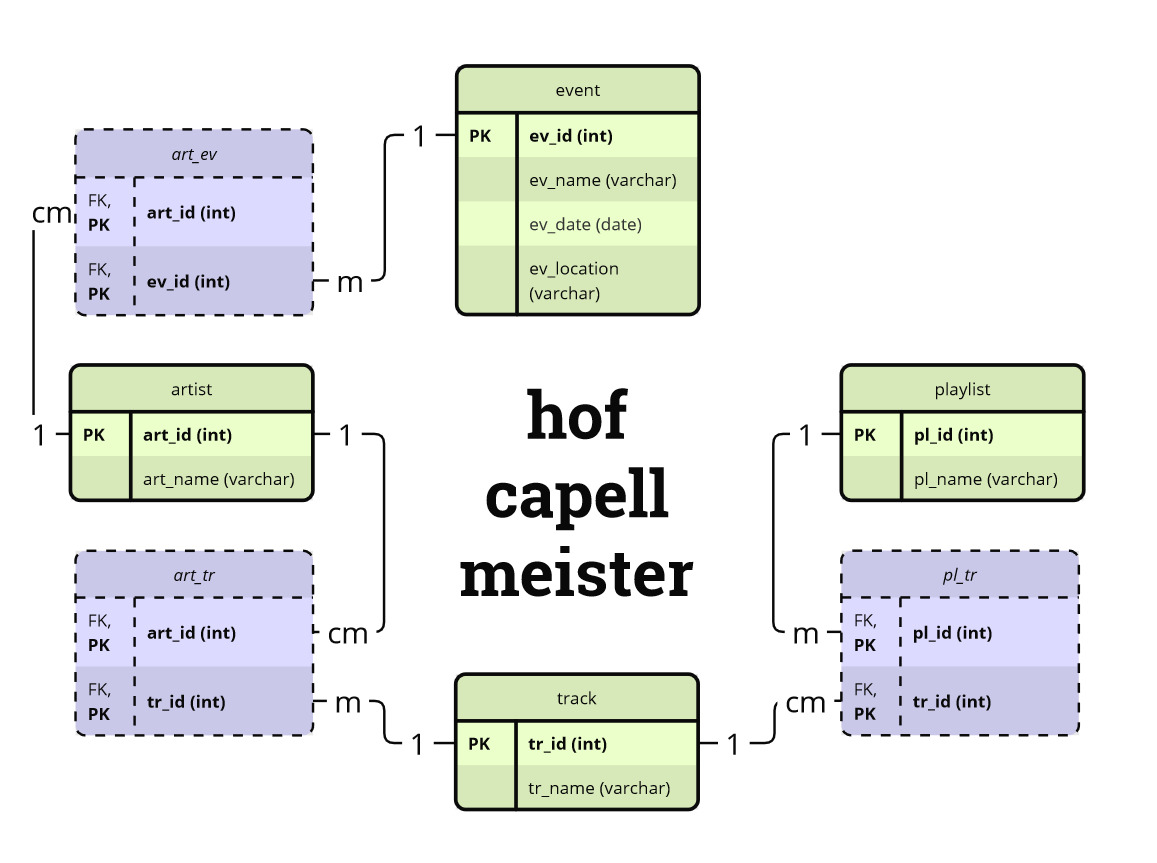
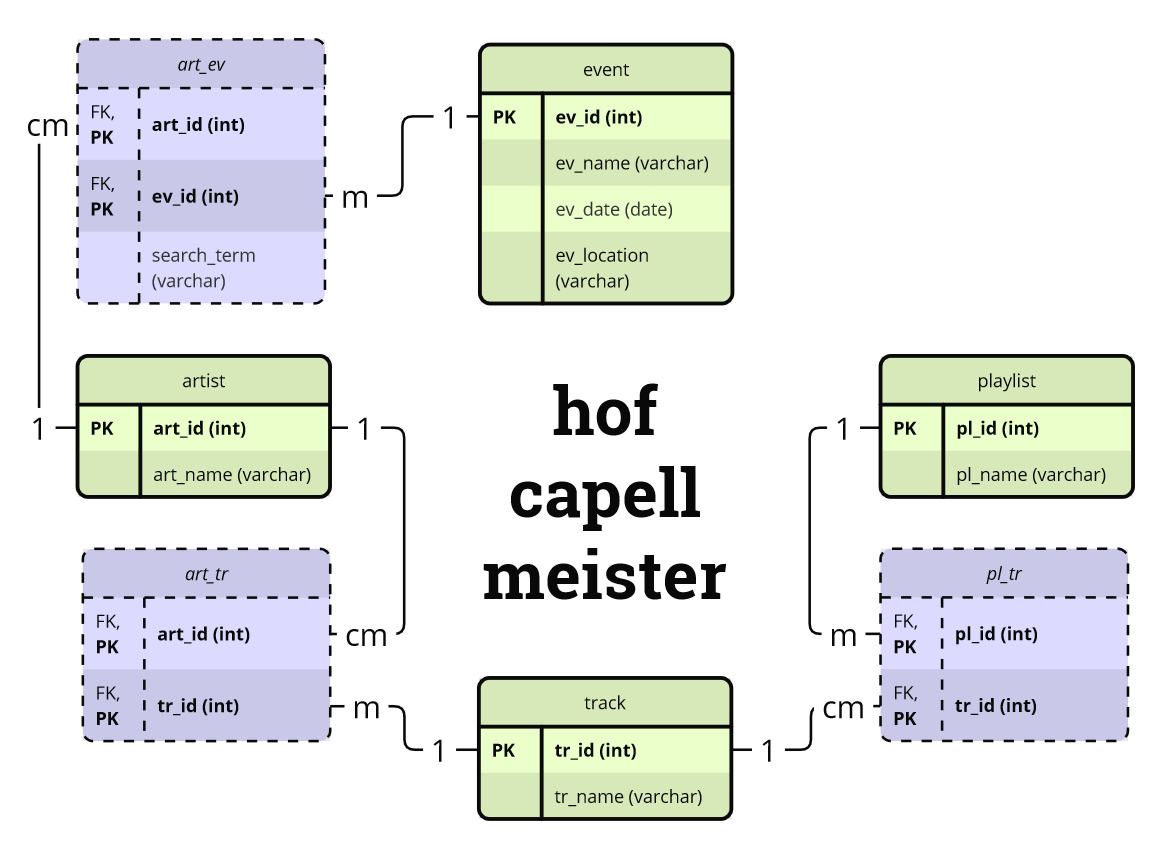
implement save_data for all database tables

Changed region(s): [[0.0311, 0.0305, 0.6845, 0.9765], [0.6534, 0.3967, 0.9957, 0.885], [0.4045, 0.4272, 0.6223, 0.7019]]

diff --git a/db_connector.py b/db_connector.py
@@ -58,6 +58,7 @@ class ConnectorMariaDB:
             CREATE TABLE IF NOT EXISTS art_ev (
                 art_id BIGINT,
                 ev_id BIGINT,
+                search_term VARCHAR(100) NOT NULL,
                 PRIMARY KEY(art_id, ev_id),
                 FOREIGN KEY(art_id) REFERENCES artist(art_id),
                 FOREIGN KEY(ev_id) REFERENCES event(ev_id)
@@ -99,14 +100,25 @@ class ConnectorMariaDB:
             self.__connection.reconnect()
             cursor = self.__connection.cursor()
             cursor.execute("SET NAMES utf8mb4;")
-            query = f'''load data local infile '{file_name}'
+            query_event = f'''load data local infile '{file_name}'
             ignore into table event
             CHARACTER SET utf8mb4
             columns terminated by ';'
             ignore 1 lines
-            (ev_name, @ev_date, ev_location)
+            (ev_name, @ev_date, ev_location, @search_term, @art_id)
             set ev_date=(SELECT STR_TO_DATE(@ev_date, '{date_format}')); '''
-            cursor.execute(query)
+            query_art_ev = f'''load data local infile '{file_name}'
+            ignore into table art_ev
+            CHARACTER SET utf8mb4
+            columns terminated by ';'
+            ignore 1 lines
+            (@ev_name, @ev_date, @ev_location, search_term, art_id)
+            set ev_id=(SELECT ev_id from event 
+            WHERE ev_name = @ev_name AND
+            ev_date = STR_TO_DATE(@ev_date, '{date_format}') AND
+            ev_location = @ev_location); '''
+            for query in (query_event, query_art_ev):
+                cursor.execute(query)
             self.__connection.commit()
             # return cursor.fetchall()
         except Exception as e:
@@ -165,7 +177,7 @@ class ConnectorMariaDB:
 
             for query in (query_artist, query_art_tr):
                 cursor.execute(query)
-                print(query)
+                # print(query)
             self.__connection.commit()
             # return cursor.fetchall()
         except Exception as e:

diff --git a/api_logger.py b/api_logger.py
@@ -85,6 +85,7 @@ def save_df_as_csv(info_df, table_name, name_addition=''):
 with open(sys.argv[1], 'r') as input_file:
     pl_ids = input_file.readlines()
 
+artist_df_list = []
 for pl_id in pl_ids:
     pl_id = pl_id.strip()
     # create url for deezer api for a specific playlist
@@ -121,7 +122,7 @@ for pl_id in pl_ids:
                 if not tr_art_df.empty:
                     tr_art_list.append(tr_art_df)
                 if playlist_is_long:
-                    time.sleep(0.03)
+                    time.sleep(0.05)
             except TypeError as e:
                 print(f"Json file for {tr_id} returned empty.")
             except KeyError as e:
@@ -131,7 +132,12 @@ for pl_id in pl_ids:
         tr_art_df_per_pl = pd.concat(tr_art_list, ignore_index=True)
         # print(set(tr_art_df_per_pl['art_name']))
         save_df_as_csv(tr_art_df_per_pl, table_name='tr_art', name_addition=f'{pl_id}_{pl_name}')
-        with open('art_names.txt', 'a') as write_artists:
-            for a_name in set(tr_art_df_per_pl['art_name']):
-                write_artists.write(a_name + '\n')
+
+        artist_df_list.append(tr_art_df_per_pl[['art_id', 'art_name']].drop_duplicates(ignore_index=True))
+        # with open('artists.txt', 'a') as write_artists:
+        #     for artist in tr_art_df_per_pl['art_id', 'art_name'].drop_duplicates(inplace=True, ignore_index=True):
+        #         write_artists.write(artist + '\n')
             # write_artists.writelines(set(tr_art_df_per_pl['art_name']))
+artist_df = pd.concat(artist_df_list, ignore_index=True).drop_duplicates(ignore_index=True)
+artist_df.to_csv(f'artists.csv', mode='w', sep=';', index=False)
+# print(artist_df)

diff --git a/web_logger.py b/web_logger.py
@@ -63,23 +63,29 @@ def prep_str_for_url(raw_str):
     return re.sub(nasty_chars, '', raw_str).replace(' ', '+')
 
 
-with open(sys.argv[1], 'r') as input_file:
-    artists = input_file.readlines()
+# with open(sys.argv[1], 'r') as input_file:
+#     artists = input_file.readlines()
 
-for artist in artists:
-    artist = prep_str_for_url(artist.strip())
+artists = pd.read_csv('artists.csv', sep=';')
+
+for _, artist in artists.iterrows():
+    # print(row['art_id'], row['art_name'])
+    art_id = artist['art_id']
+    search_term = prep_str_for_url(artist['art_name'])
     # print(artist)
     # create url to search for artist events at volume.at
-    a_url = f'https://www.volume.at/?s={artist}&post_type=event'
+    a_url = f'https://www.volume.at/?s={search_term}&post_type=event'
     # read events info
     try:
         results = get_event_data(return_soup(a_url))
         # save results
         for key, dataframe in results.items():
             if not dataframe.empty:
+                dataframe['search_term'] = search_term
+                dataframe['art_id'] = art_id
                 save_df_as_csv(dataframe, name_addition=key)
             else:
-                print(f"No events found for {key}.")
+                print(f"No events found for: {key}")
     except KeyError as e:
         print(f"Playlist {artist} could not be read: {e}")
     except TypeError:

diff --git a/save_data.py b/save_data.py
@@ -28,7 +28,7 @@ try:
         hcm_db.add_pl_tr_from_csv(file_path)
     for file_name in os.listdir(tr_art_dir):
         file_path = os.path.join(tr_art_dir, file_name)
-        print(file_path)
+        # print(file_path)
         hcm_db.add_tr_art_from_csv(file_path)
 
     # hcm_db.close_connection()

diff --git a/README.md b/README.md
@@ -34,7 +34,7 @@ connects infos from your music streaming habits (Deezer) to concerts of your fav
   ```
 - ***module web_logger.py***: get previous and future event data via *volume.at webscraping* for a list of artists (output from ***module api_logger.py***) and save it to csv files in events_data
   ```console
-  python web_logger.py art_names.txt
+  python web_logger.py
   ```
 - ***module save_data.py***: create all tables for database if they don't exist and save all data from folders ***events_data***, ***pl_tr_data***, ***tr_art_data*** to the *hofcapellmeister* database
   ```console
@@ -42,27 +42,27 @@ connects infos from your music streaming habits (Deezer) to concerts of your fav
   ```
 
 ### work in progress:
-- get data for *art_ev* table
-- implement some kind of visualization
+- implement some kind of visualization, ***plot_data.py***?
+- maybe orchestrate everything from a ***main.py*** file
 
 ### TODO ***web_logger.py***
-- remove duplicates in list of artist names befor using it
-- add artist names to csv output
 - check/improve handling of special characters
 - review try except blocks: exception handling was partly copy-pasted from ***api_logger.py***, parts can be removed or modified
 - write unittests
 
 ### TODO ***api_logger.py***
+- better exception handling in case of requests.exceptions.ConnectionError: Max retries exceeded with url
+- review try except blocks
 - write docu how to use it
 - write unittests
 
 ### TODO ***save_data.py***
 - check if *create_hcm_tables* is finished before importing data
+- read ddl for creating tables from textfile
+- read connection variables from configfile
 - visualize part of the data
 
 ### TODO last week
-- read ddl for creating tables from textfile
-- read connection variables from configfile
 - clean up code and project structure
 - clean up documentation
 - more beautiful visualization
